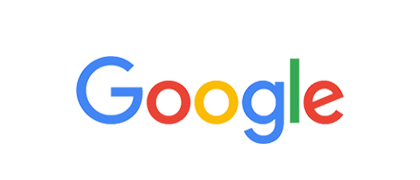
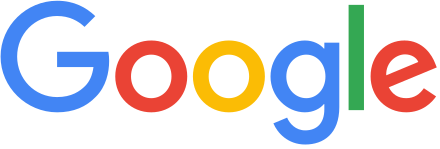
added sponsors

diff --git a/src/app/views/home/Home.js b/src/app/views/home/Home.js
@@ -16,14 +16,21 @@ import mobileBackground from 'assets/images/background.png';
 import periwinkle_planet from 'assets/images/periwinkleplanet.png';
 import about from 'assets/images/about.png';
 import faq from 'assets/images/faq.png';
-import spponsors_pic from 'assets/images/sponsors.png';
 
+// SPONSORS
+import spponsors_pic from 'assets/images/sponsors.png';
+import ucibren from 'assets/images/sponsors/ucibren.png';
+import disney from 'assets/images/sponsors/disney.png';
+import crowdstrike from 'assets/images/sponsors/crowdstrike.png';
+import informatics from 'assets/images/sponsors/informatics.png';
+import google from 'assets/images/sponsors/google.png';
+import oracle from 'assets/images/sponsors/oracle.png';
 
 function Home() {
   return (
     <div className="Home">
-      <img id='background' src={background_2}></img>
-      <img id="mobile-background" src={mobileBackground}></img>
+      {/* <img id='background' src={background_2}></img> */}
+      {/* <img id="mobile-background" src={mobileBackground}></img> */}
       <section id='intro'>
         <div className="title-info">
           <Fade duration={3000}>
@@ -168,12 +175,12 @@ function Home() {
               <p>
                 You will be building your project from scratch. However, feel free to come with ideas of what you want to build!
               </p>
-              <h3>
+              {/* <h3>
                 Are there travel reimbursements?
               </h3>
               <p>
                 i think so but kayla can't remember lol
-              </p>
+              </p> */}
               <h3>
                 How do I get hyped?
               </h3>
@@ -189,11 +196,18 @@ function Home() {
       <section id="sponsors">
         <Fade duration={1000}>
           <img src={spponsors_pic}></img>
-          <h3>to be worked on</h3>
+          <div id="sponsors-grid">
+            <img src={ucibren}></img>
+            <img src={disney}></img>
+            <img style={{background: '#002143', padding: '15px 8px'}} src={informatics}></img>
+            <img src={crowdstrike}></img>
+            <img style={{width: '300px'}} src={google}></img>
+            <img src={oracle}></img>
+          </div>
         </Fade>
       </section>
       <section id="credits">
-        <p>Made with <a href="https://en.wikipedia.org/wiki/Anteater">&hearts;</a> in Irvine, CA</p>
+        {/* <p>Made with <a href="https://en.wikipedia.org/wiki/Anteater">&hearts;</a> in Irvine, CA</p> */}
       </section>
     </div>
   );

diff --git a/src/app/views/home/Home.scss b/src/app/views/home/Home.scss
@@ -3,6 +3,7 @@
 .Home {
   text-align: center;
   min-height: 100vh;
+  background-image: linear-gradient(#122649, #496ab5);
 
   h1 {
     font-weight: 600;
@@ -20,10 +21,11 @@
   }
 
   #mobile-background {
-    width: 100vw;
-    height: 600vh;
-    position: absolute;
-    left: 0;
+    // width: 100vw;
+    // height: 700vh;
+    // position: absolute;
+    // left: 0;
+    background-image: linear-gradient(#122649, #496ab5)
 
     // @media screen and (min-width: 1200px) {
     //   display: none;
@@ -269,8 +271,49 @@
     }
   }
 
+  #sponsors-grid {
+    background: white;
+    border-radius: 10px;
+    display: grid;
+    grid-template-columns: 1fr 1fr 1fr;
+    grid-column-gap: 25px;
+    grid-row-gap: 10px;
+    margin: auto auto 100px;
+    max-width: 1150px;
+    padding: 20px 10px;
+
+    @media screen and (max-width: 1200px) {
+      grid-template-columns: 1fr 1fr;
+      grid-column-gap: 25px;
+      grid-row-gap: 10px;
+      max-width: 850px;
+    }
+
+    @media screen and (max-width: 870px) {
+      grid-template-columns: 1fr;
+      grid-column-gap: 25px;
+      grid-row-gap: 10px;
+      max-width: 400px;
+    }
+
+    @media screen and (max-width: 440px) {
+      max-width: 300px;
+    }
+  }
+  #sponsors-grid img {
+    width: auto;
+    height: auto;
+    max-width: 330px;
+    max-height: 125px;
+    margin: auto;
+
+    @media screen and (max-width: 440px) {
+      max-width: 270px;
+    }
+  }
+
   #credits {
-    height: 15vh;
+    // height: 15vh;
     display: flex;
     justify-content: center;
     align-items: center;
